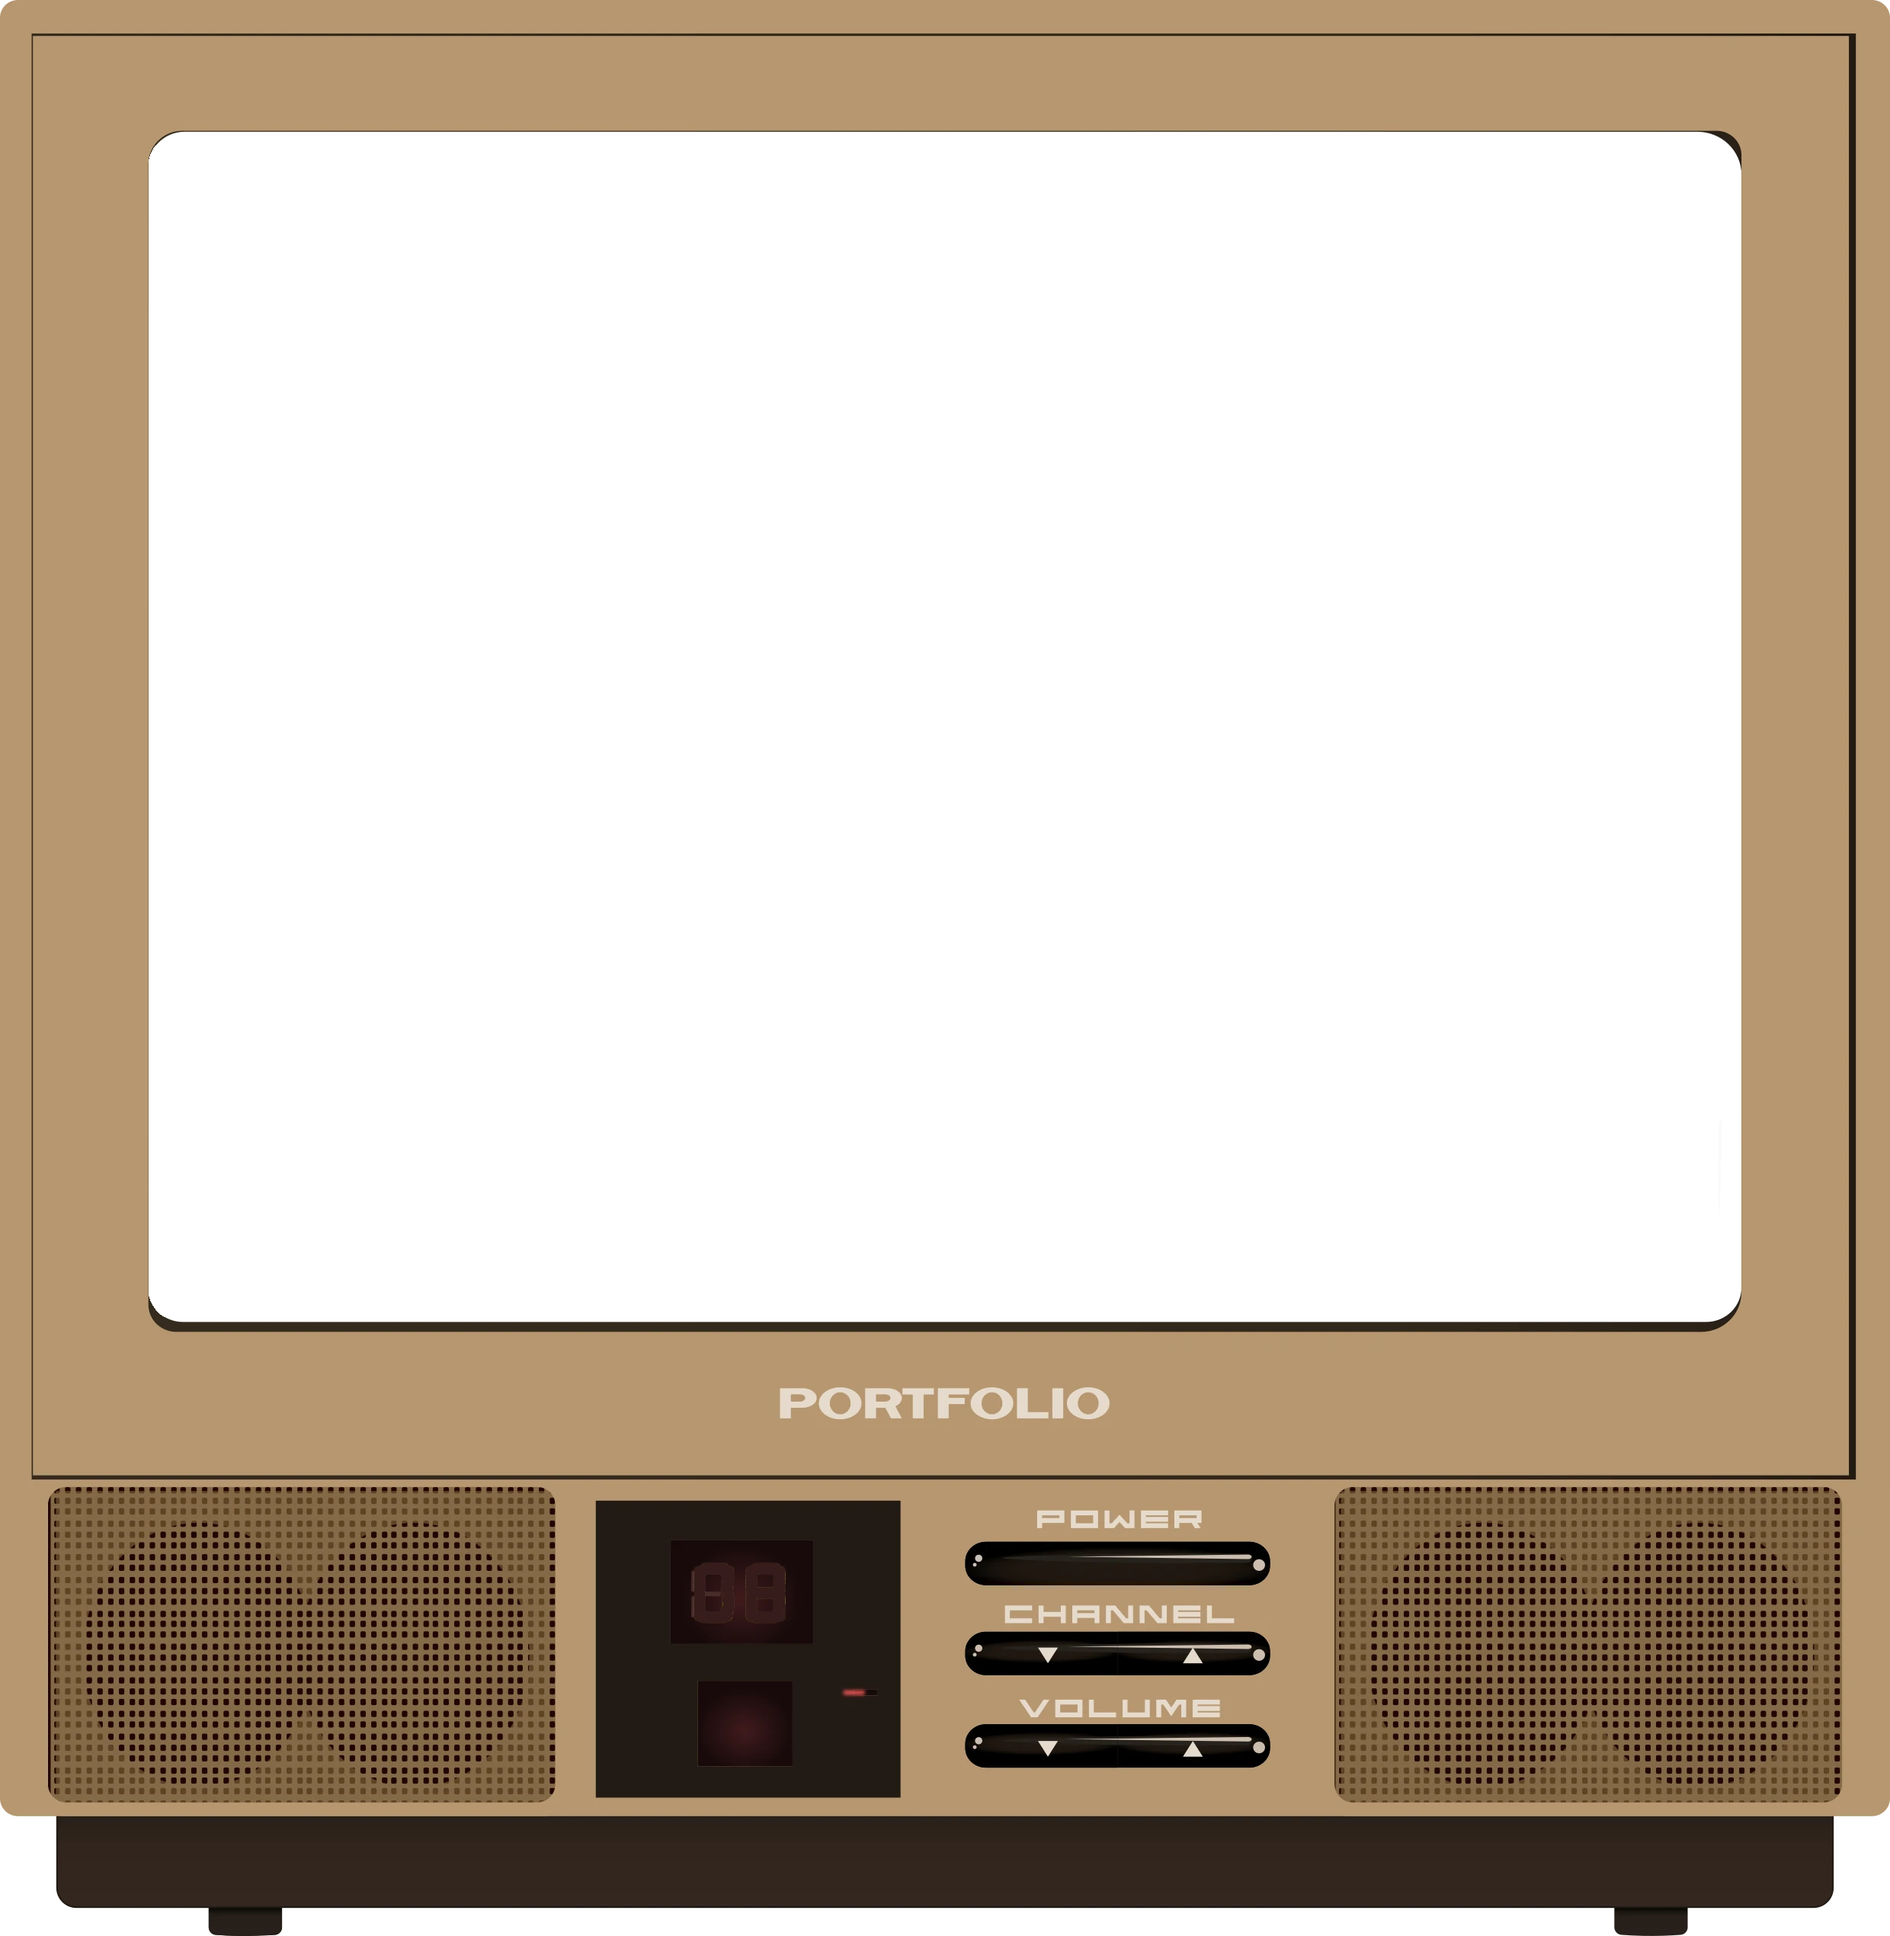
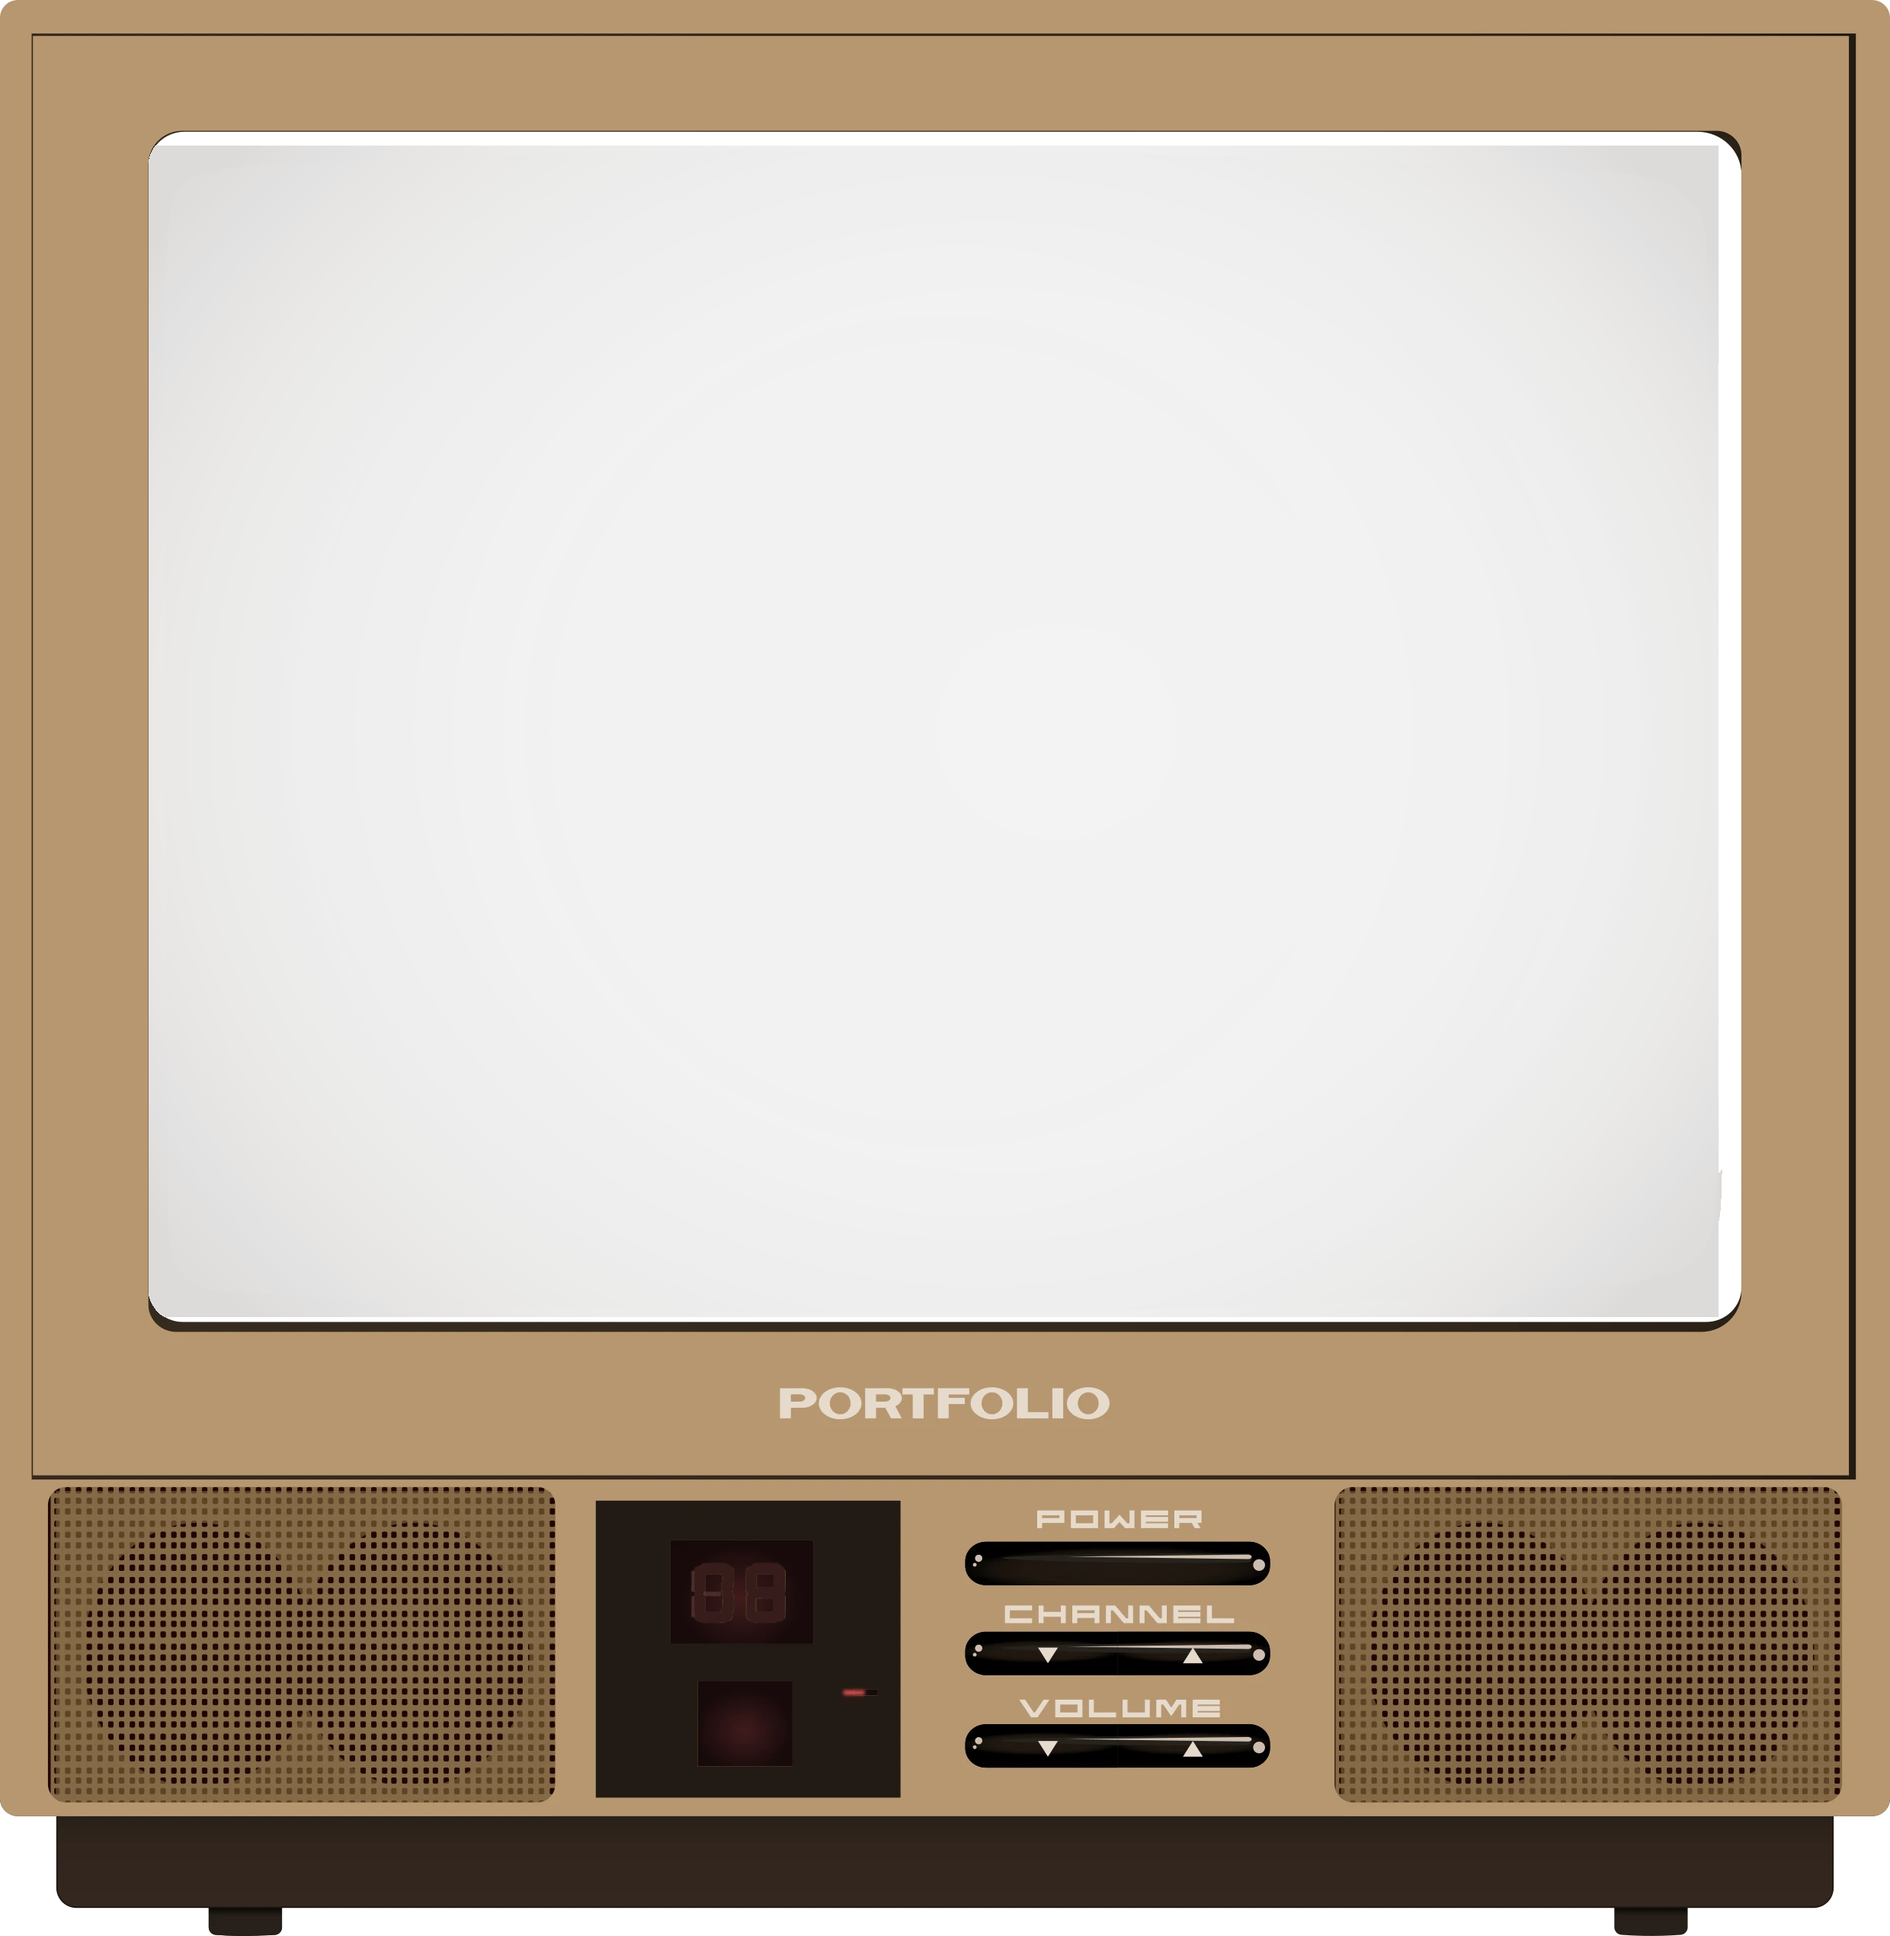
fix(projects): glass over the mobile tube, accurate link, one-line CTA
The mobile cabinet was punching a hole in the screen where the desktop one
lays translucent glass over it. Sampling the desktop chassis shows its picture
area is not a cutout at all: it is a flat rgb(27,19,13) at alpha 13 in the
centre rising to ~39 at the edges, which tints and vignettes whatever shows
through. The mobile asset now reproduces that exactly, alpha following the
artwork's own vignette, so the title card sits UNDER the glass the way it does
on desktop rather than running edge to edge with nothing over it.

Rebuilt from the newest export. The stray white stripe is gone from the source,
so the aperture no longer has to work around it. The lit-"88" recolour is
scoped to the glyph bounding box: an earlier pass matched 96k pixels and tinted
the panel and the speaker grilles maroon, this one matches ~5.5k, the glyphs.

Two things from the tune-in card:

- "Test:" was inaccurate. A live URL now wins whenever there is one. The old
  rule required status 'live' or 'completed', which mislabelled any launched
  site still carrying work — Hedgewitch is 'in-progress' for add-ons, so
  visitors were sent to hedgewitch.netlify.app under a "Test:" label while
  hedgewitchhorticulture.com sat unused in the same record.
- "View full case study →" kept the arrow on its own line at phone width. The
  floor is lowered and the label set nowrap, so the arrow stays part of the link.

Guide text floors trimmed ~15%. At this screen width the cqw term sits below
[…]

diff --git a/src/styles/pages/projects.css b/src/styles/pages/projects.css
@@ -740,7 +740,10 @@
   /* Tighter typography across the TV's text content so it fits the
      much smaller mobile screen. */
   .crt-tv__channel-row {
-    font-size: clamp(0.6rem, 3cqw, 0.9rem);
+    /* Floors trimmed ~15%. At this screen width the cqw term is below the
+       floor, so the floor is what actually renders — lowering the cqw would
+       change nothing here. */
+    font-size: clamp(0.51rem, 3cqw, 0.9rem);
     padding: 0.3rem 0.4rem;
     gap: clamp(0.4rem, 1.5cqw, 0.7rem);
   }
@@ -757,13 +760,13 @@
      above the feature pane in source order — z-index promotion below
      ensures the text reads on top of the avatar where they overlap. */
   .crt-tv__guide-info-brand {
-    font-size: clamp(0.7rem, 3.4cqw, 1rem);
+    font-size: clamp(0.6rem, 3.4cqw, 1rem);
   }
   .crt-tv__guide-info-show {
-    font-size: clamp(0.85rem, 4cqw, 1.2rem);
+    font-size: clamp(0.72rem, 4cqw, 1.2rem);
   }
   .crt-tv__guide-info-channel {
-    font-size: clamp(0.65rem, 2.8cqw, 0.9rem);
+    font-size: clamp(0.55rem, 2.8cqw, 0.9rem);
   }
   /* Let nowrap text bleed past the column edge instead of clipping —
      desktop's overflow:hidden / clip rules aren't appropriate here
@@ -832,7 +835,11 @@
   }
 
   .crt-tv__panel-cta {
-    font-size: clamp(1.1rem, 5cqw, 1.7rem);
+    /* One line, arrow included. At the old floor the label filled the screen
+       and pushed the arrow onto a line of its own, which read as a stray
+       glyph rather than part of the link. */
+    font-size: clamp(0.8rem, 5cqw, 1.7rem);
+    white-space: nowrap;
   }
 }
 
@@ -867,6 +874,15 @@
    Sized + positioned to the screen aperture (the area where the
    title-card content lives in the bg image), measured via flood-fill of
    tv/chassis.webp's transparent cutout center. */
+/* The stack the cabinet is built around, bottom to top:
+     1  title-card backdrop and the composed card
+     2  the live screen — guide, tune-in panels
+     3  the cabinet itself (.crt-tv__frame), whose glass tints and vignettes
+        everything above, exactly like a real tube
+     4+ the readout and the buttons, which sit ON the cabinet and so must read
+        crisp above it
+   Everything that belongs to the picture goes UNDER the cabinet; only the
+   things physically mounted on its face go over. */
 .crt-tv__screen {
   position: absolute;
   top: var(--tv-screen-top);
@@ -897,6 +913,8 @@
      0 height for a frame or two (TV snaps to the top, then settles late). */
   aspect-ratio: 1426 / 1093;
   display: block;
+  /* Over the whole picture — backdrop, title card and live screen alike — and
+     under the readout and buttons. See the stacking note on .crt-tv__screen. */
   z-index: 3;
   pointer-events: none;
   /* Drop-shadow follows the frame's transparent silhouette (wood case

diff --git a/src/modules/ui/projects.ts b/src/modules/ui/projects.ts
@@ -1598,11 +1598,16 @@ export class ProjectsModule extends BaseModule {
     // Outro — always last. Click-through to detail page is the headline
     // affordance; live/test URL secondary; hint about channel-changing
     // tertiary so the user knows they can keep browsing.
-    // Only link a live URL once the project is actually live; until then the
-    // test site is the one that answers.
-    const isLaunched = project.status === 'live' || project.status === 'completed';
-    const primaryUrl = (isLaunched && project.liveUrl) || project.testUrl || project.liveUrl;
-    const primaryLabel = isLaunched && project.liveUrl ? 'Live' : project.testUrl ? 'Test' : 'Live';
+    //
+    // A live URL wins whenever there is one. This used to require status to be
+    // 'live' or 'completed', which mislabelled any launched site still carrying
+    // ongoing work: Hedgewitch is 'in-progress' because of add-ons, so a
+    // visitor was sent to hedgewitch.netlify.app under a "Test:" label while
+    // the real hedgewitchhorticulture.com sat unused in the same record. The
+    // test URL is the fallback for something that genuinely has nowhere else
+    // to point, not the default for anything unfinished.
+    const primaryUrl = project.liveUrl || project.testUrl;
+    const primaryLabel = project.liveUrl ? 'Live' : 'Test';
     const liveLink = primaryUrl
       ? `<a class="crt-tv__panel-link" href="${escapeAttr(primaryUrl)}" target="_blank" rel="noopener">${primaryLabel}: ${escapeHtml(primaryUrl)}</a>`
       : '';
